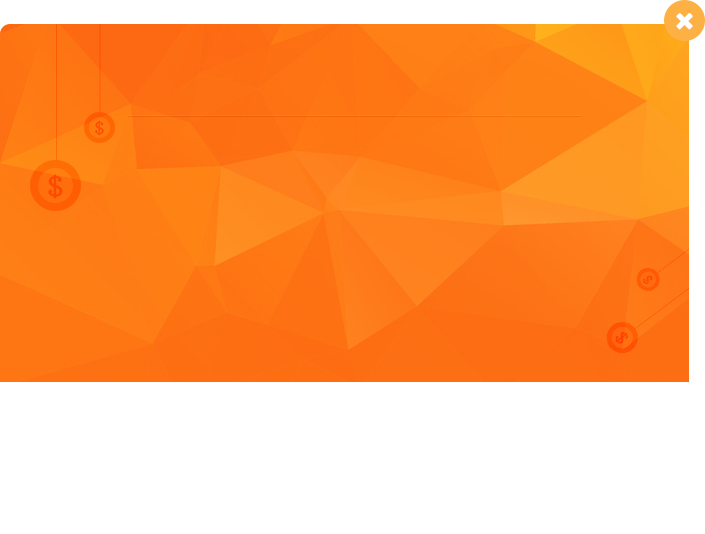
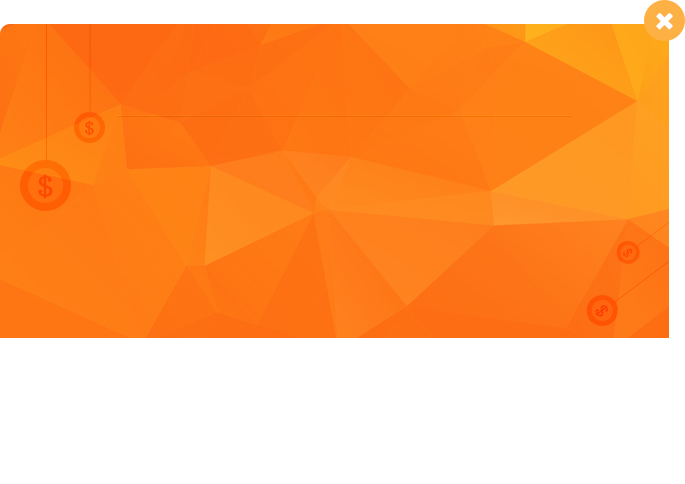
feat(modal-activate):调整存管通激活弹窗文案及背景图大小

diff --git a/app/styles/common.less b/app/styles/common.less
@@ -3135,8 +3135,8 @@ a.cancel-red:focus {
     position: relative;
     border-radius: 0;
     background: url('/images/user-center/activate-bg.png') no-repeat 0 0;
-    width: 705px;
-    height: 534px;
+    width: 685px;
+    height: 484px;
     margin: 0 auto;
      background-color: transparent;
     background-clip: padding-box;
@@ -3161,7 +3161,7 @@ a.cancel-red:focus {
         .hongcai {
           margin-left: 28.5px;
           margin-top: 21px;
-          margin-bottom: 46px;
+          margin-bottom: 37px;
         }
         .text {
           font-size: 16px;
@@ -3169,7 +3169,7 @@ a.cancel-red:focus {
           line-height: 26px;
         }
         .btns {
-          margin-top: 116px;
+          margin-top: 104px;
           .btn1, .btn2 {
             width: 196px;
             height: 46px;

diff --git a/app/views/modal/modal-activate.html b/app/views/modal/modal-activate.html
@@ -9,13 +9,12 @@
         <div class="connect">
           <img src="/images/user-center/activate-logo.png" alt="" class="hongcai">
           <div class="text">
-            宏财网携手北京网贷存管通，为您提供更安全的资金存管服务</br>
             您的账户已经升级为北京网贷资金存管账户，请点击按钮立即</br>
-            进行账户迁移，尽享安全理财。</br>
+            开通，尽享安全理财。</br>
           </div>
           <div class="btns clearfix">
             <button class="btn1 pull-left">了解存管通</button>
-            <button class="btn2 pull-left">立即迁移</button>
+            <button class="btn2 pull-left">立即开通</button>
           </div>
         </div>
       </div>

diff --git a/app/scripts/app.js b/app/scripts/app.js
@@ -1909,7 +1909,6 @@ hongcaiApp.run(function($templateCache, $rootScope, $location, $window, $http, $
       $rootScope.activateModal = $modal({
         scope: $rootScope,
         template: 'views/modal/modal-activate.html',
-        // controller: 'modalActivateCtrl',
         show: true
       });
     }
